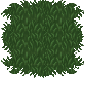
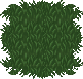
fix(tilemap): center forest tiles

diff --git a/src/World/TileMap.h b/src/World/TileMap.h
@@ -4,31 +4,26 @@
 #include <string>
 #include <vector>
 
-enum class TileId
-{
-    Grass
-};
+enum class TileId { Grass };
 
-class TileMap
-{
+class TileMap {
 public:
-    static constexpr int TileSize = 64;
-    static constexpr int GrassDrawSize = 96;
-    static constexpr int GrassDrawOffset = (GrassDrawSize - TileSize) / 2;
-    static constexpr int MapWidth = 80;
-    static constexpr int MapHeight = 60;
+  static constexpr int TileSize = 60;
+  static constexpr int GrassDrawSize = 64;
+  static constexpr int MapWidth = 80;
+  static constexpr int MapHeight = 60;
 
-    bool Load(const std::string& texturePath);
-    void Draw(sf::RenderTarget& target, const sf::View& view);
+  bool Load(const std::string &texturePath);
+  void Draw(sf::RenderTarget &target, const sf::View &view);
 
-    sf::Vector2f GetWorldSize() const;
+  sf::Vector2f GetWorldSize() const;
 
 private:
-    void BuildMap();
-    sf::IntRect GetTextureRect(TileId tile) const;
-    void AppendTile(sf::VertexArray& vertices, int x, int y, TileId tile) const;
+  void BuildMap();
+  sf::IntRect GetTextureRect(TileId tile) const;
+  void AppendTile(sf::VertexArray &vertices, int x, int y, TileId tile) const;
 
-    sf::Texture m_tileset;
-    std::vector<TileId> m_tiles;
-    sf::VertexArray m_visibleVertices;
+  sf::Texture m_tileset;
+  std::vector<TileId> m_tiles;
+  sf::VertexArray m_visibleVertices;
 };

diff --git a/src/World/TileMap.cpp b/src/World/TileMap.cpp
@@ -65,21 +65,26 @@ void TileMap::BuildMap()
 
 sf::IntRect TileMap::GetTextureRect(TileId tile) const
 {
+    sf::Vector2u textureSize = m_tileset.getSize();
+    int textureLeft = std::max(0, (static_cast<int>(textureSize.x) - GrassDrawSize) / 2);
+    int textureTop = std::max(0, (static_cast<int>(textureSize.y) - GrassDrawSize) / 2);
+
     switch(tile)
     {
         case TileId::Grass:
-            return sf::IntRect(0, 0, GrassDrawSize, GrassDrawSize);
+            return sf::IntRect(textureLeft, textureTop, GrassDrawSize, GrassDrawSize);
     }
 
-    return sf::IntRect(0, 0, GrassDrawSize, GrassDrawSize);
+    return sf::IntRect(textureLeft, textureTop, GrassDrawSize, GrassDrawSize);
 }
 
 void TileMap::AppendTile(sf::VertexArray& vertices, int x, int y, TileId tile) const
 {
     sf::IntRect texRect = GetTextureRect(tile);
 
-    float worldX = static_cast<float>(x * TileSize - GrassDrawOffset);
-    float worldY = static_cast<float>(y * TileSize - GrassDrawOffset);
+    float drawOffset = (TileSize - GrassDrawSize) / 2.0f;
+    float worldX = static_cast<float>(x * TileSize) + drawOffset;
+    float worldY = static_cast<float>(y * TileSize) + drawOffset;
     float worldRight = worldX + GrassDrawSize;
     float worldBottom = worldY + GrassDrawSize;
 